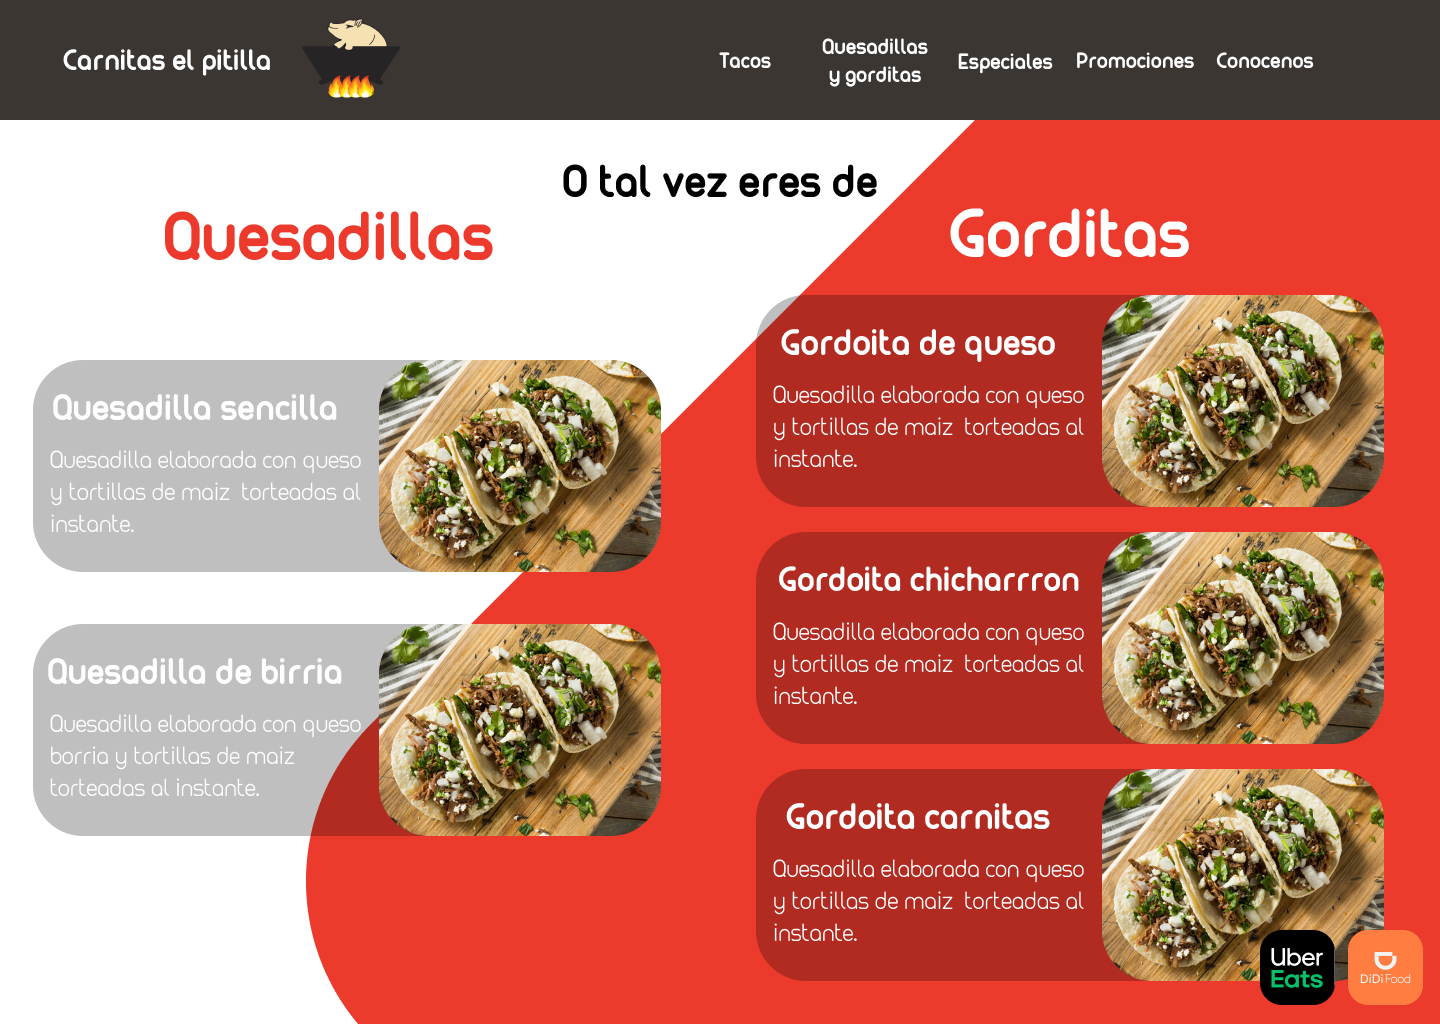
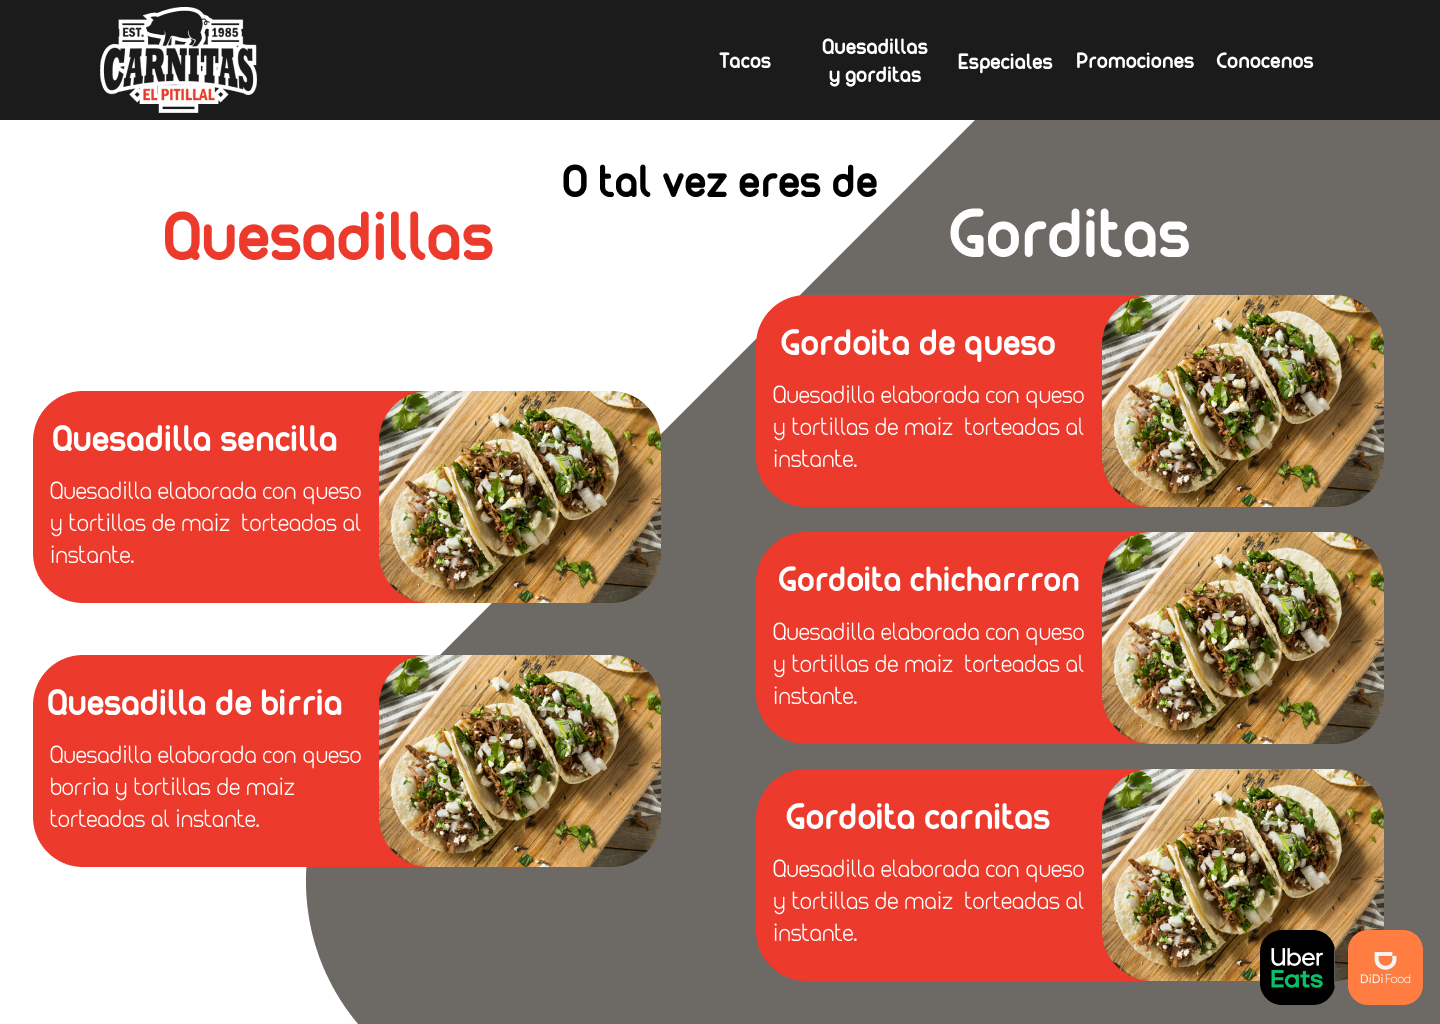
cambios navbar

diff --git a/index.html b/index.html
@@ -7,11 +7,11 @@
     <title>Carnitas el Pitillal</title>
     <script src="./scripts/jquery-3.6.0.min.js"></script>
     <link rel="stylesheet" href="index.css" />
-    <link rel="stylesheet" href="/styles/navbar.css" />
-    <link rel="stylesheet" href="/styles/main.css" />
+    <link rel="stylesheet" href="./styles/navbar.css" />
+    <link rel="stylesheet" href="./styles/main.css" />
   </head>
   <body>
-    <nav class="navbar">
+    <nav class="navbar opacity">
       <!-- logo -->
       <div class="logo">
         <a href="/">
@@ -37,8 +37,15 @@
     </nav>
     <main>
       <div class="main-container">
-        <h1>Bienvenidos a Carnitas el Pitillal</h1>
+        <!-- <h1>Bienvenidos a Carnitas el Pitillal</h1> -->
       </div>
     </main>
+
+    <script type="text/javascript">
+      window.addEventListener("scroll", function () {
+        var header = document.querySelector("nav");
+        header.classList.toggle("sticky", window.scrollY > 0);
+      });
+    </script>
   </body>
 </html>

diff --git a/styles/navbar.css b/styles/navbar.css
@@ -1,17 +1,26 @@
 .container {
   height: 200vh;
 }
+.opacity {
+  background: rgba(0, 0, 0, 0.7);
+}
 /* navbar */
 .navbar {
   display: flex;
   align-items: center;
   justify-content: space-between;
   padding: 20px 30px;
-  background-color: #3b3632;
+  /* background-color: #000; */
   color: #fff;
   position: fixed;
   width: 100%;
   z-index: 10;
+  transition: 0.6s;
+}
+
+.sticky {
+  background-color: #000;
+  padding: 0px 30px;
 }
 
 /* Logo */
@@ -58,13 +67,19 @@ input[type="checkbox"] {
   .menu {
     display: none;
     position: absolute;
-    margin-top: 30px;
-    background-color: #3b3632;
+    margin-top: 45px;
+    background: rgba(0, 0, 0, 0.7);
     right: 0;
     left: 0;
     text-align: center;
-    padding: 50px 0;
-    height: 100%;
+    /* padding: 50px 0; */
+    height: 100vh;
+  }
+  .sticky .menu {
+    margin-top: 25px;
+    background-color: #000;
+    height: 100vh;
+    transition: 0.6s;
   }
   .menu li:hover {
     display: inline-block;

diff --git a/styles/main.css b/styles/main.css
@@ -3,6 +3,9 @@ main {
   display: flex;
   justify-content: center;
   align-items: center;
+  background-image: url("../assets/header-carnitas.jpg");
+  background-repeat: no-repeat;
+  background-size: cover;
 }
 .main-container {
   width: 90%;

diff --git a/index.css b/index.css
@@ -26,3 +26,6 @@ a {
 li {
   list-style: none;
 }
+body {
+  min-height: 200vh;
+}
